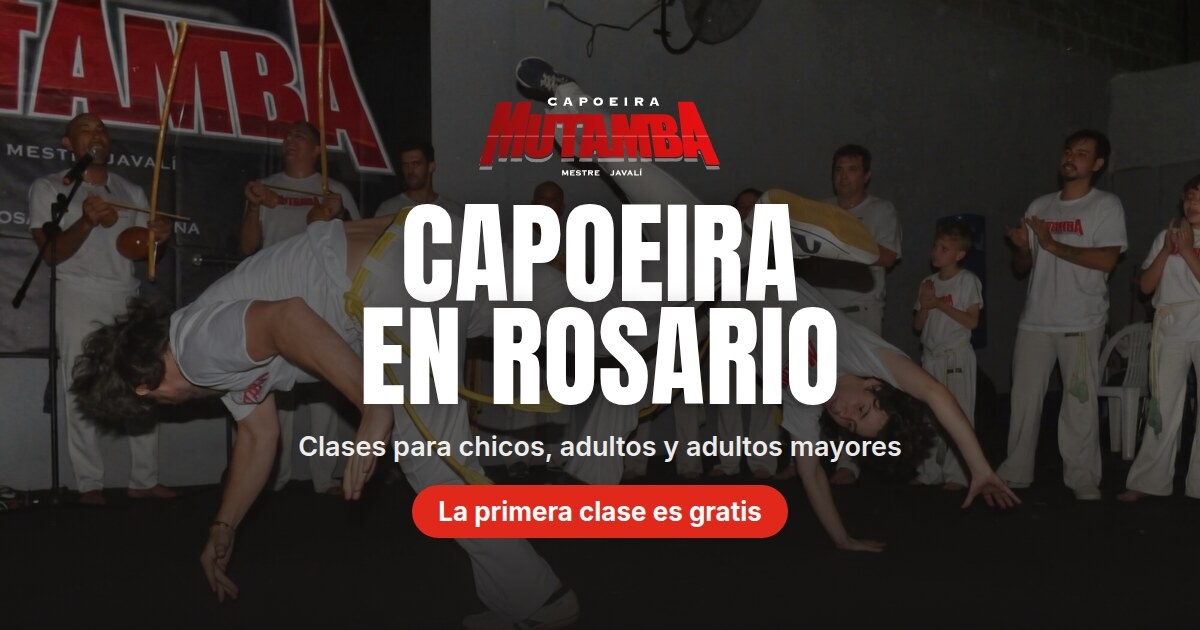
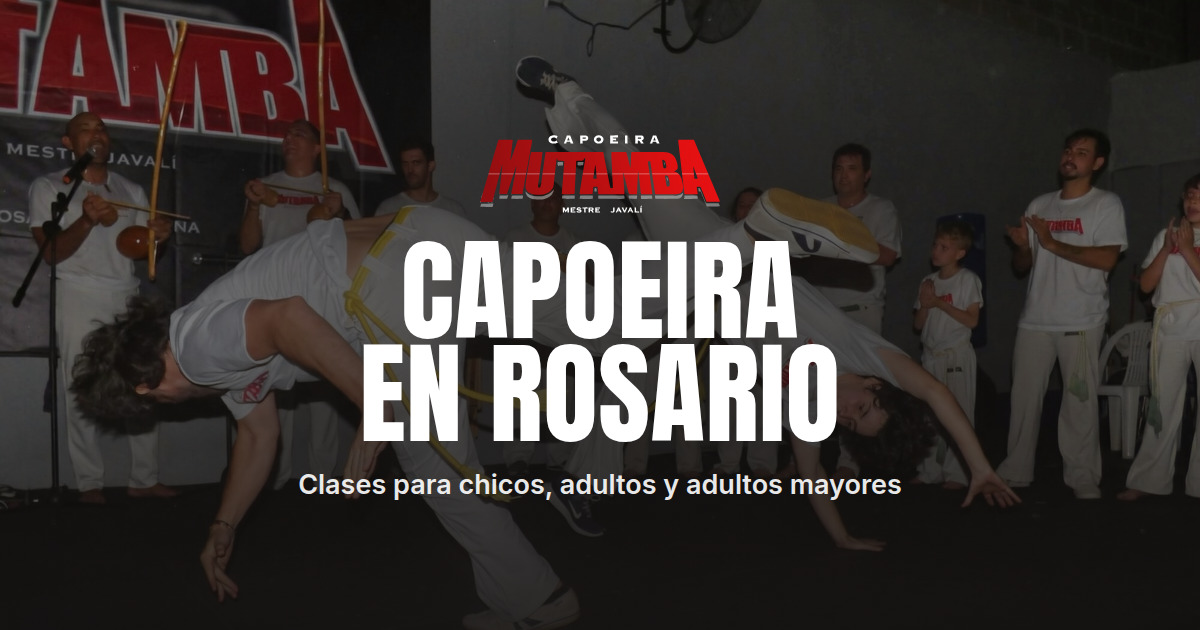
Fotos del batizado 2026 y vista previa sin la clase gratis
- Galería del encuentro: 18 fotos en seis filas, con fotos de doble
  ancho (`ancha`) y recorte de miniatura ajustable (`posicion`).
- Fotos nuevas en las clases Infantil y Adultos mayores y en la sección
  del grupo de adultos mayores. Se saca el texto sobre Esther.
- Imagen para compartir sin "La primera clase es gratis". El texto de la
  vista previa se separa de la descripción para Google
  (`descripcionCompartir`).

diff --git a/src/data/site.ts b/src/data/site.ts
@@ -70,7 +70,7 @@ export const clases = [
     horario: 'Viernes de 20 a 21 hs y sábados de 10 a 11 hs',
     sede: 'roca' as SedeId,
     foto: 'clase-infantil',
-    fotoAlt: 'Un profesor y una nena entrenando juntos un movimiento de capoeira',
+    fotoAlt: 'Dos alumnos del grupo infantil juegan en la roda mientras sus compañeros hacen palmas',
     whatsapp: 'infantil' as MensajeKey,
   },
   {
@@ -81,7 +81,7 @@ export const clases = [
     horario: 'Martes y jueves a las 11 hs',
     sede: 'mendoza' as SedeId,
     foto: 'clase-adultos-mayores',
-    fotoAlt: 'Una alumna del grupo de adultos mayores abrazada a su profesor',
+    fotoAlt: 'Una alumna del grupo de adultos mayores juega en la roda frente a la batería',
     whatsapp: 'mayores' as MensajeKey,
   },
 ] as const;

diff --git a/README.md b/README.md
@@ -43,7 +43,10 @@ Todo el contenido vive en **`src/data/site.ts`**:
 
 Cuando se anuncie la próxima edición: actualizar `nombre` (cada año cambia), `edicion`, `fechas`, `inicio` y `fin`
 (las mismas fechas en formato estándar, para que Google muestre el evento), `lugar`, `invitados`, `programa`,
-`inscripcion` y pasar `estado` a `'proximo'`. Las fotos de la galería se cambian en `src/components/Encuentro.astro`.
+`inscripcion` y pasar `estado` a `'proximo'`. Las fotos de la galería se cambian en `src/components/Encuentro.astro`:
+la primera va grande y con `ancha: true` una foto ocupa dos columnas (sirve para las panorámicas). Para que la grilla
+quede completa, los lugares tienen que sumar un múltiplo de 4 (la primera cuenta 4 y cada ancha, 2). Con `posicion`
+se corre el recorte de la miniatura cuando lo importante no está en el centro.
 
 ### Fotos
 
